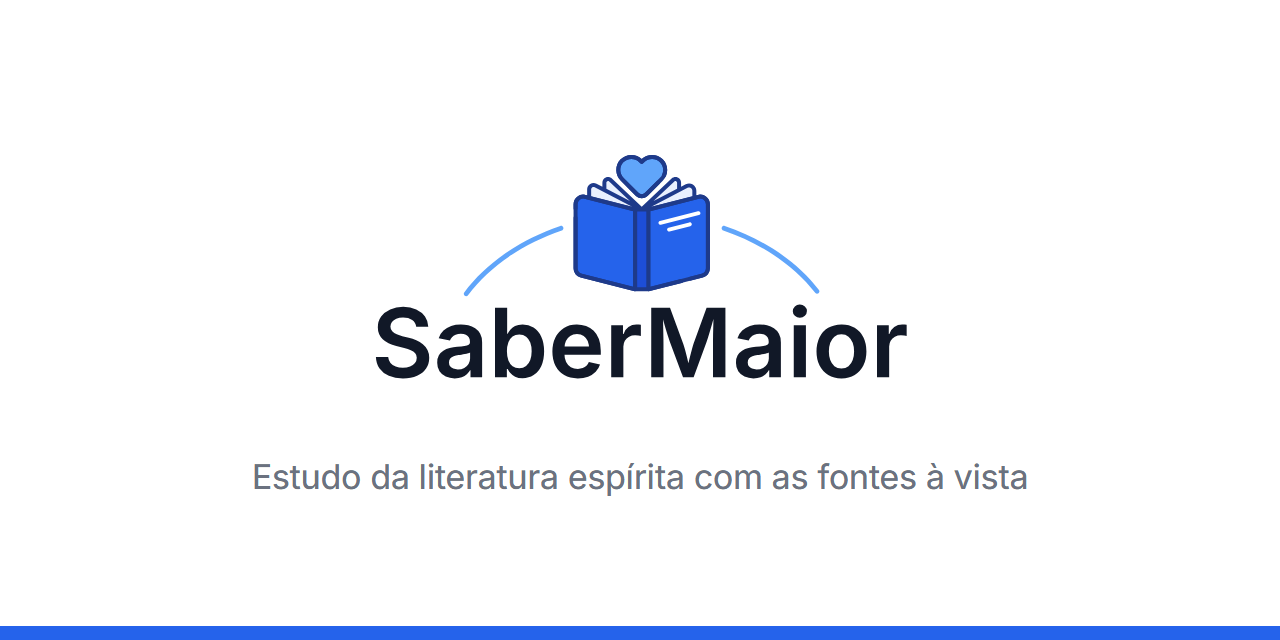
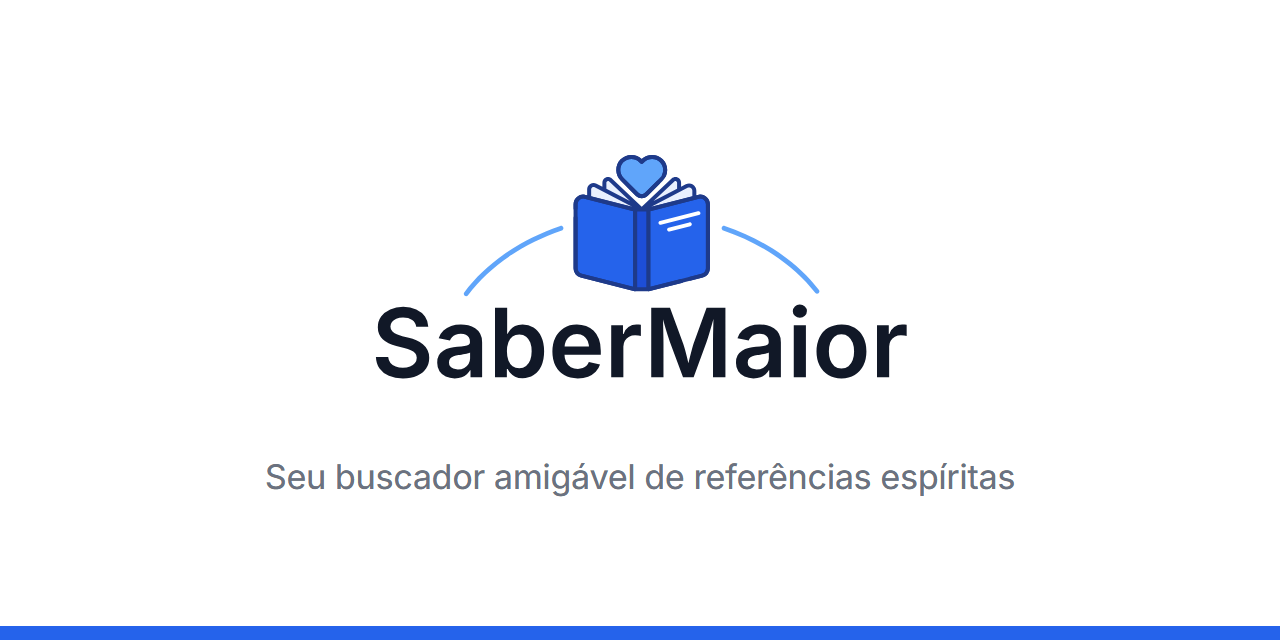
Describe Saber Maior as a friendly reference finder
Replaces the "fontes à vista" tagline in the README, the Apoie share
text and the social preview image.

Changed region(s): [[0.1875, 0.7188, 0.8125, 0.7812]]

diff --git a/web/src/componentes/Apoie.tsx b/web/src/componentes/Apoie.tsx
@@ -41,7 +41,7 @@ const PRESTACAO_DE_CONTAS = 'https://drive.google.com/drive/folders/1ZzeddySZomv
 // Com `publico: false`, o cartão mostra "Em breve" em vez do link (que daria 404 num repositório privado).
 const REPOSITORIO = { url: 'https://github.com/arcade-metrics/sabermaior', publico: true }
 
-const DIVULGACAO = 'Saber Maior: estudo da literatura espírita com as fontes à vista, gratuito.'
+const DIVULGACAO = 'Saber Maior: buscador amigável de referências na literatura espírita, gratuito.'
 
 /** Cartão no rodapé da barra lateral, logo acima da conta. */
 export function CartaoApoie({ ativo }: { ativo: boolean }) {

diff --git a/README.md b/README.md
@@ -5,7 +5,7 @@
   <img src="images/brand/logo-saber-maior-light.svg" alt="Saber Maior" width="320">
 </picture>
 
-**Estudo da literatura espírita com as fontes à vista, gratuito e em aberto.**
+**Um buscador amigável de referências na literatura espírita, gratuito e em aberto.**
 
 Um assistente que responde perguntas a partir das obras espíritas e mostra, em cada frase,
 o trecho, a obra, o capítulo e a página de onde tirou o que diz.
